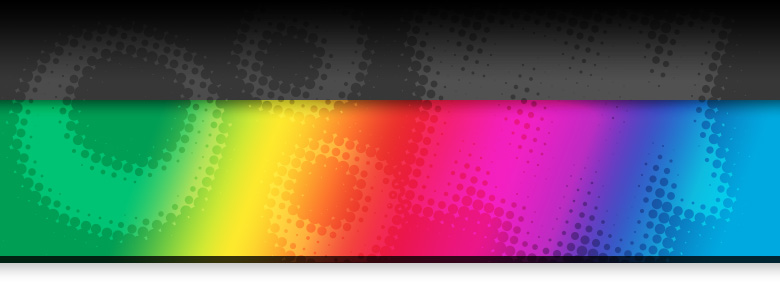
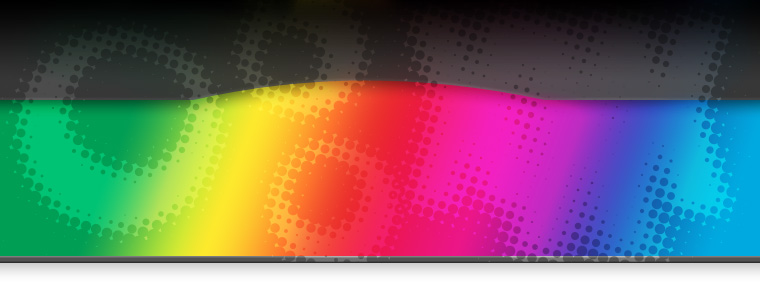
started responsive layout

diff --git a/static/css/layout.css b/static/css/layout.css
@@ -1,4 +1,6 @@
-header { width: 760px; height: 285px; margin: 0 auto; position: relative;}
+div#container { width: 760px; margin: 0 auto; position: relative;}
+
+header { width:100%; height: 285px; position: relative;}
 
 div.left-stripe { width: 780px; height: 285px; margin: 0 auto; position: absolute; top: 0; right: 760px;}
 
@@ -6,4 +8,17 @@ div.left-stripe { width: 780px; height: 285px; margin: 0 auto; position: absolut
 
 #super-links {position: absolute; top: 45px; right: 10px;}
 #super-links ul {list-style-type: none;}
-#super-links li {display: inline; }
+#super-links li {display: inline; padding-left: 1.5em;}
+
+div.main {}
+
+
+/* Small-screen devices */
+@media screen and (max-width:750px) {
+    div#container { width:100%; }
+    header { text-align: center; }
+    #i-am-neil-de-carteret {position: static; margin: 0 auto; }
+    #super-links {top: 55px; left: 10px;}
+    #super-links ul {padding: 0; margin: 0;}
+    #super-links li {padding: 0 1em 0 0;}
+}

diff --git a/templates/stormcrayon.html b/templates/stormcrayon.html
@@ -12,13 +12,15 @@
     <img id="i-am-neil-de-carteret" src="/static/images/i-am-neil-de-carteret.png" alt="I am Neil de Carteret">
     <nav id="super-links">
         <ul>
-            <li>Home
-            <li>Contact
-            <li>Blog
-            <li>GitHub
+            <li><a href="">Home</a>
+            <li>|
+            <li><a href="">Contact</a>
+            <li>|
+            <li><a href="">Blog</a>
+            <li>|
+            <li><a href="">GitHub</a>
         </ul>
     </nav>
-
 {% endblock %}
 
 {% block main %}Stormcrayon main{% endblock %}

diff --git a/static/css/colours.css b/static/css/colours.css
@@ -1,5 +1,12 @@
 body { background: white url(/static/images/right.png) repeat-x; }
 
-header { background: black url(/static/images/top.jpg); }
+header { background: black url(/static/images/top.jpg); color: #aaa; }
+
+#super-links a { color: #bbb }
+#super-links a:hover { color: #fff }
 
 div.left-stripe { background: black url(/static/images/left.png); }
+
+@media screen and (max-width:750px) {
+    header { background-position: center; }
+}

diff --git a/static/css/fonts.css b/static/css/fonts.css
@@ -1,0 +1,3 @@
+#super-links a { text-decoration: none; }
+#super-links a:hover { text-decoration: underline; }
+

diff --git a/settings.py b/settings.py
@@ -4,7 +4,7 @@ DEBUG = True
 TEMPLATE_DEBUG = DEBUG
 
 ADMINS = (
-    # ('Your Name', 'your_email@domain.com'),
+    ('Neil de Carteret', 'nel.decarteret@gmail.com'),
 )
 
 MANAGERS = ADMINS
@@ -90,7 +90,6 @@ INSTALLED_APPS = (
     'django.contrib.sessions',
     'django.contrib.sites',
     'django.contrib.messages',
-    # Uncomment the next line to enable the admin:
     'django.contrib.admin',
     'south',
     'stormcrayon.core',
